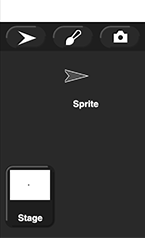
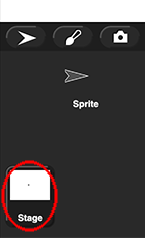
Sparks - 2.2.2

Changed region(s): [[0.0, 0.6471, 0.4138, 1.0]]

diff --git a/sparks/student-pages/U2/L2/02-adding-costumes.html b/sparks/student-pages/U2/L2/02-adding-costumes.html
@@ -8,6 +8,8 @@
 
 	<body>
 		<h2>Adding Costumes and Backgrounds</h2>
+		<div class="todo">Split into two pages. --MF, 1/11/23</div>
+
 		<div class="learn">In this activity, you'll add costumes to your sprites and a background to the stage.</div>
 		
 		<h3>Revisit Your Plan</h3>
@@ -20,9 +22,6 @@
 						<li>How many sprites will you have? What kinds of costumes will they have? Will they ever change costumes?</li>
 					</ul>
 				</li>
-				<li>
-					<div class="newProject"><span class="text">"BJCMS - Interactive Project"</span><img src="/bjc-r/img/icons/new-project-called.png" alt="Create a new project called BJCMS - Interative Project" title="Create a new project called BJCMS - Interative Project" /></div>
-				</li>
 			</ol>
 		</div>
 		
@@ -30,23 +29,30 @@
 		<div class="forYouToDo">
 			<ol start="3">
 				<li>
-                    Change the background on the stage.
+					<div class="todo">Need to go back through entire course and change "BJCMS" prefix to "Sparks" (also check for other references to middle school. --MF, 1/11/23</div>
+					<div class="newProject"><span class="text">"Sparks - Interactive Project"</span><img src="/bjc-r/img/icons/new-project-called.png" alt="Create a new project called Sparks - Interative Project" title="Create a new project called Sparks - Interative Project" /></div>
+				</li>
+				<li>
+                    Change the background on the stage.<br />
+					<img class="indent" style="height: 150px;" src="/bjc-r/sparks/img/U2/lab02/background_Bedroom_1.png" alt="example sprite background: cartoon of a bedroom with pink and yellow walls, a bed, and a computer; in Snap!, this costume is called 'Bedroom 1'" title="example sprite background: cartoon of a bedroom with pink and yellow walls, a bed, and a computer; in Snap!, this costume is called 'Bedroom 1'" />
+					<img class="indent" style="height: 150px;" src="/bjc-r/sparks/img/U2/lab02/background_Night_City_with_Street.png" alt="example sprite background: cartoon of a cityscape at night with a street in front; in Snap!, this costume is called 'Night City with Street'" title="example sprite background: cartoon of a cityscape at night with a street in front; in Snap!, this costume is called 'Night City with Street'" />
+					<img class="indent" style="height: 150px;" src="/bjc-r/sparks/img/U2/lab02/background_Party_Room.png" alt="example sprite background: cartoon of a room with a disco ball, speakers, colorful lights, a projection screen, and a microphone; in Snap!, this costume is called 'Party Room'" title="example sprite background: cartoon of a room with a disco ball, speakers, colorful lights, a projection screen, and a microphone; in Snap!, this costume is called 'Party Room'" />		
                     <div class="narrower">
-							<img class="imageRight" src="/bjc-r/sparks/img/U2/lab02/icon-stage.png" alt="image of the lower right corner of the Snap! window with the Stage icon showing" title="image of the lower right corner of the Snap! window with the Stage icon showing" />
+						<img class="imageRight" src="/bjc-r/sparks/img/U2/lab02/icon-stage.png" alt="image of the lower right corner of the Snap! window with the Stage icon circled" title="image of the lower right corner of the Snap! window with the Stage icon circled" />
                         <h4><strong>Adding a Built-in Stage Background</strong></h4>
                         <ol type="a">
-							<li>In the lower right corner of the Snap<em>!</em> window, select the <strong>stage</strong> icon (shown right).</li>
+							<li>In the lower right corner of the Snap<em>!</em> window, select the <strong>Stage</strong> icon (shown right).</li>
                             <li>Choose "Backgrounds..." from the File (<img class="inline" src="/bjc-r/img/1-introduction/file_button.png" alt="File menu button" title="File menu button"/>) menu.</li>
                             <li>Choose a background.</li>
                             <li>Click "Import."</li>
                             <li>Click "Cancel" to close the dialog box.</li>
-							<p style="clear: both; height: 0px;"></p>
                         </ol>
-                    </div>                    
+						<p style="clear: both; height: 0px;"></p>
+					</div>
                 </li>
 			</ol>
 		</div>
-		
+
 		<div class="ifTime show">
 			<ol start="4">
 				<li>Add more backgrounds if you want.</li>
@@ -54,7 +60,7 @@
                     <div class="narrowblue">
                         <h4><strong>Changing a Stage Background</strong></h4>
                         <ol type="a">
-							<li>If it isn't selected already, Select the <strong>stage</strong> icon in the lower right corner of the Snap<em>!</em> window.</li>
+							<li>If it isn't selected already, Select the <strong>Stage</strong> icon in the lower right corner of the Snap<em>!</em> window.</li>
                             <div class="sidenoteBig">The "Backgrounds" tab isn't always visible. It replaces the "Costumes" tab when the stage icon is selected.</div>
 							<li>
 								Click the "Backgrounds" tab above the scripting area.<br />
@@ -71,13 +77,17 @@
 		<div class="forYouToDo">
 			<ol start="6">
 				<li>
-                    Change the costume for your first sprite. (You can add more sprites later.)
+                    Change the costume for your first sprite. (You can add more sprites later.)<br />
+					<img class="indent" style="height: 150px;" src="/bjc-r/sparks/img/U2/lab02/costume_avery_walking_a.svg" alt="example sprite costume: cartoon of a person walking; they have brown skin and dark brown hair held back with a headband; in Snap!, this costume is called 'avery walking a'" title="example sprite costume: cartoon of a person walking; they have brown skin and dark brown hair held back with a headband; in Snap!, this costume is called 'avery walking a'" />
+					<img class="indent" src="/bjc-r/sparks/img/U2/lab02/costume_ball_soccer.svg" alt="example sprite costume: cartoon of a soccer ball; in Snap!, this costume is called 'ball soccer'" title="example sprite costume: cartoon of a soccer ball; in Snap!, this costume is called 'ball soccer'" />
+					<img class="indent" style="height: 150px;" src="/bjc-r/sparks/img/U2/lab02/costume_dee_a.svg" alt="example sprite costume: cartoon of a person standing with one hand held out; they have light skin and short reddish hair; in Snap!, this costume is called 'dee a'" title="example sprite costume: cartoon of a person standing with one hand held out; they have light skin and short reddish hair; in Snap!, this costume is called 'dee a'" />
+					<img class="indent" src="/bjc-r/sparks/img/U2/lab02/costume_dragon1_b.svg" alt="example sprite costume: cartoon of a dragon breathing fire; in Snap!, this costume is called 'dragon1 b'" title="example sprite costume: cartoon of a dragon breathing fire; in Snap!, this costume is called 'dragon1 b'" />					
 		            <div class="endnote">Changing a costume is almost like changing a stage background! The only differences are in <strong>bold</strong> below.</div>
                     <div class="narrower">
-							<img class="imageRight" src="/bjc-r/sparks/img/U2/lab02/icon-stage.png" alt="image of the lower right corner of the Snap! window with the Stage icon showing" title="image of the lower right corner of the Snap! window with the Stage icon showing" />
+						<img class="imageRight" src="/bjc-r/sparks/img/U2/lab02/icon-sprite.png" alt="image of the lower right corner of the Snap! window with the Sprite icon circled" title="image of the lower right corner of the Snap! window with the Sprite icon circled" />
                         <h4><strong>Adding a Built-in Sprite Costume</strong></h4>
                         <ol type="a">
-							<li>In the lower right corner of the Snap<em>!</em> window, select the <strong>sprite</strong> icon (shown right).</li>
+							<li>In the lower right corner of the Snap<em>!</em> window, select the <strong>Sprite</strong> icon (shown right).</li>
                             <li>Choose <strong>"Costumes..."</strong> from the File (<img class="inline" src="/bjc-r/img/1-introduction/file_button.png" alt="File menu button" title="File menu button"/>) menu.</li>
                             <li>Choose a <strong>costume</strong>.</li>
                             <li>Click "Import."</li>
@@ -97,11 +107,11 @@
                     <div class="narrowblue">
                         <h4><strong>Changing a Sprite Costume</strong></h4>
                         <ol type="a">
-							<li>Select the <strong>sprite</strong> icon if it isn't selected already.</li>
+							<li>Select the <strong>Sprite</strong> icon if it isn't selected already.</li>
                             <div class="sidenoteBig">The "Costumes" tab isn't always visible. It replaces the "Backgrounds" tab when a sprite icon is selected.</div>
 							<li>
 								Click the <strong>"Costumes"</strong> tab above the scripting area.<br />
-								<img class="indent" src="/bjc-r/sparks/img/U2/lab02/select-backgrounds.png" alt="image of the 'Costumes' tab, which is located between the 'Scripts' and 'Sounds' tabs above the scripting area" title="image of the 'Costumes' tab, which is located between the 'Scripts' and 'Sounds' tabs above the scripting area" />
+								<img class="indent" src="/bjc-r/sparks/img/U2/lab02/select-costumes.png" alt="image of the 'Costumes' tab, which is located between the 'Scripts' and 'Sounds' tabs above the scripting area" title="image of the 'Costumes' tab, which is located between the 'Scripts' and 'Sounds' tabs above the scripting area" />
 							</li>
 							<li>Select a different <strong>costume</strong>.</li>
                         </ol>

diff --git a/sparks/student-pages/U2/L2/01-planning-project.html b/sparks/student-pages/U2/L2/01-planning-project.html
@@ -16,7 +16,7 @@
 		
 		<div class="sidenote">You first learned about sprites, costumes, and the Snap<em>!</em> stage in <a href="/bjc-r/sparks/student-pages/U1/L4/03-investigating-and-storing-images.html?topic=sparks%2F1-functions-data.topic&course=middle-school.html" title="Unit 1 Lab 4 Activity 3: Investigating and Storing Images">Unit 1 Lab 4 Activity 3: Investigating and Storing Images</a>.</div>
 
-	<p>Your project should have characters or objects that move around (<em>sprites</em>) on top of a background image (the Snap<em>!</em> <em>stage</em>). You'll control how the sprites look by changing their <em>costumes</em>, and you'll control how the stage looks by changing its <em>background</em>. </p>
+		<p>Your project should have characters or objects that move around (<em>sprites</em>) on top of a background image (the Snap<em>!</em> <em>stage</em>). You'll control how the sprites look by changing their <em>costumes</em>, and you'll control how the stage looks by changing its <em>background</em>. </p>
 		<p>
 			Here are a few of the costumes included in Snap<em>!</em>. You can also import your own.<br />
 			<img class="indent" style="height: 150px;" src="/bjc-r/sparks/img/U2/lab02/costume_avery_walking_a.svg" alt="example sprite costume: cartoon of a person walking; they have brown skin and dark brown hair held back with a headband; in Snap!, this costume is called 'avery walking a'" title="example sprite costume: cartoon of a person walking; they have brown skin and dark brown hair held back with a headband; in Snap!, this costume is called 'avery walking a'" />
